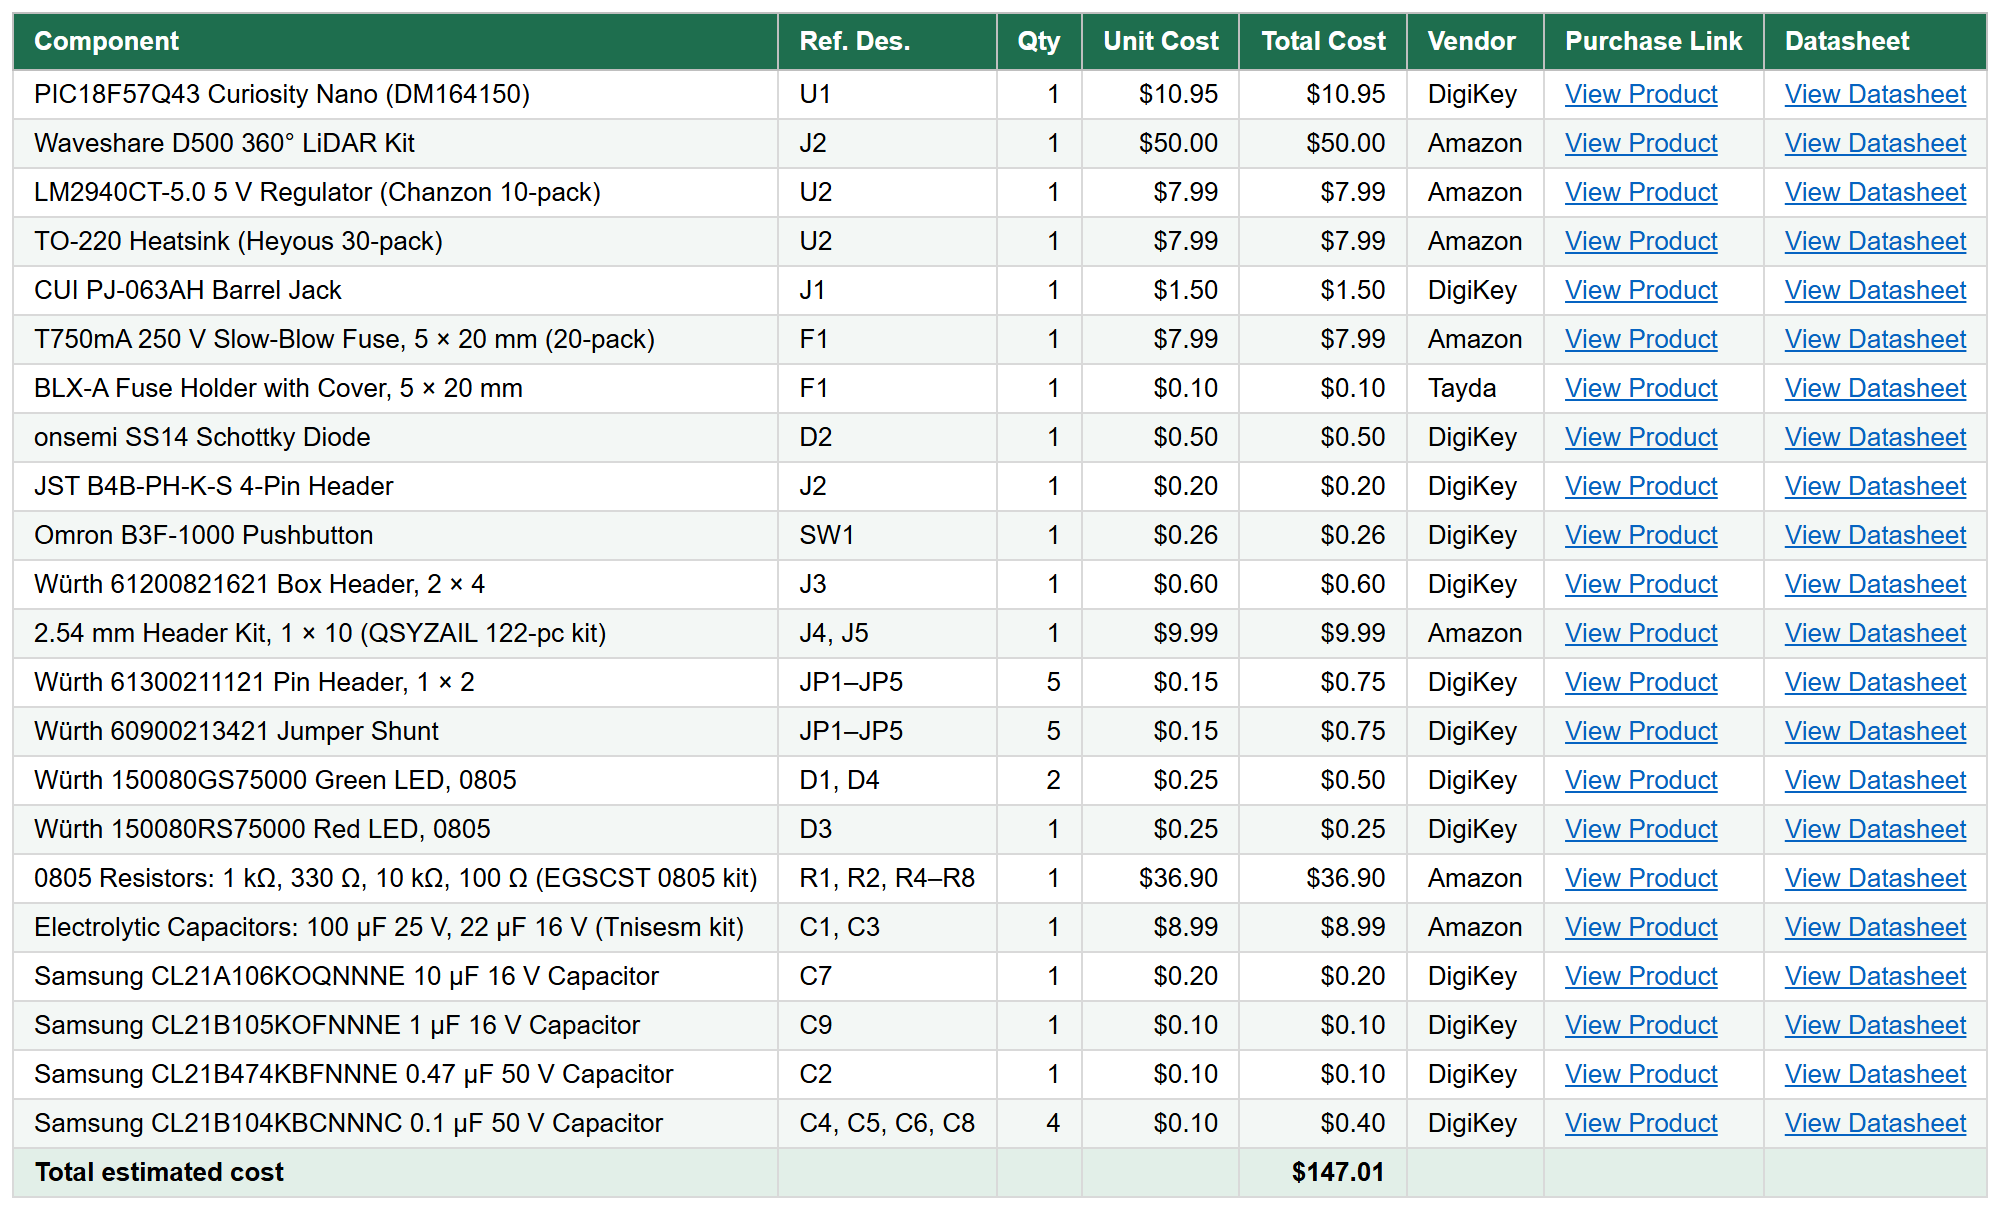
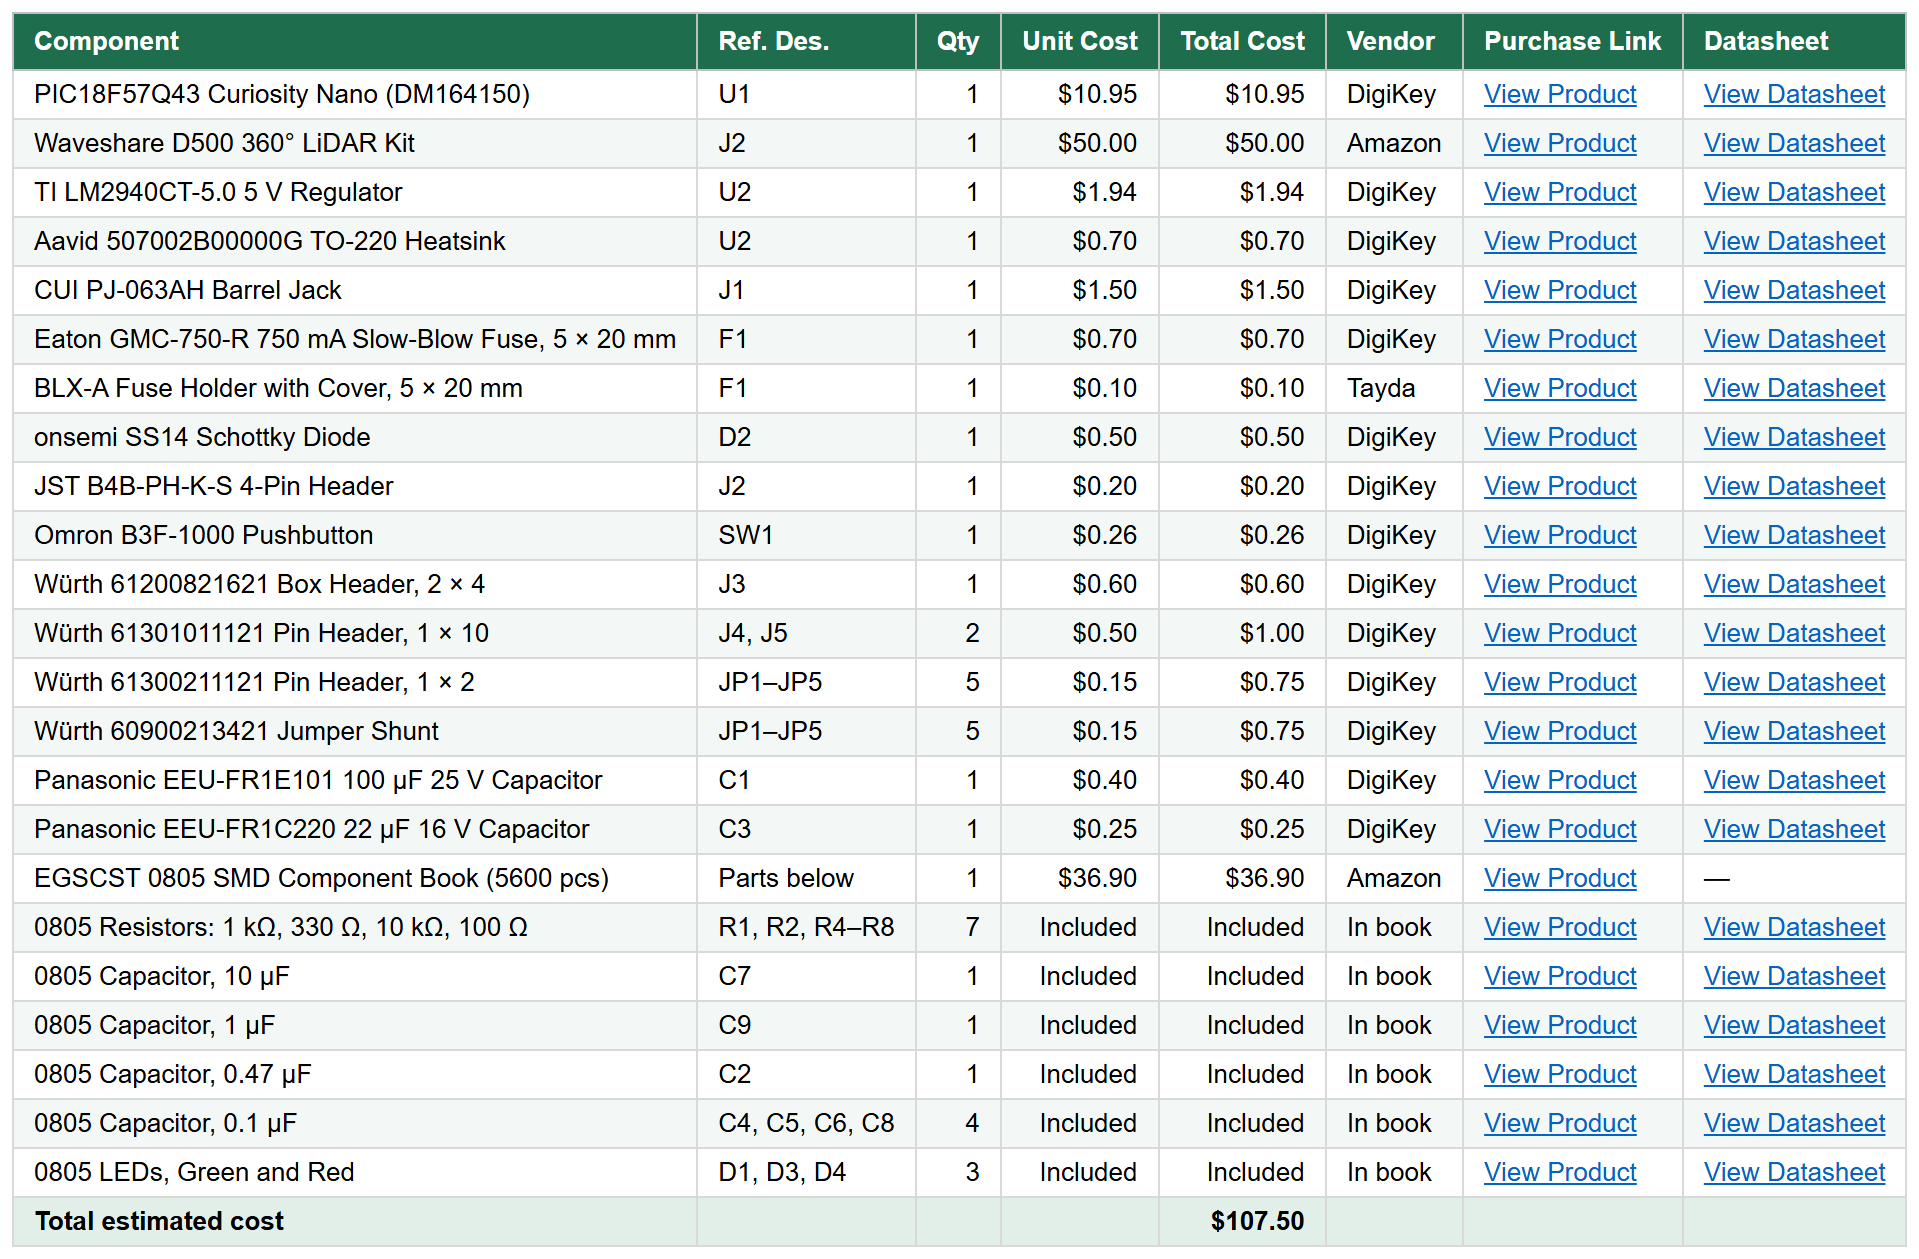
deploy: fafc009e485b6124edbb22317f1070342c896b4a

Changed region(s): [[0.0, 0.0, 1.0, 0.9785]]

diff --git a/03-BOM/BOM/index.html b/03-BOM/BOM/index.html
@@ -1070,7 +1070,7 @@
   <h1>Bill of Materials</h1>
 
 <h2 id="overview">Overview</h2>
-<p>Everything needed to build my LiDAR subsystem board. Reference designators match the <a href="../../04-Schematic/Schematics/">schematic</a>. Prices are in US dollars without shipping. Some parts are bought as kits from Amazon; the kit price is listed once, and the datasheet link is for an equivalent manufacturer part.</p>
+<p>Everything needed to build my LiDAR subsystem board. Reference designators match the <a href="../../04-Schematic/Schematics/">schematic</a>. Prices are in US dollars without shipping. Parts come from DigiKey except the LiDAR, the fuse holder, and the 0805 component book, which supplies every resistor, ceramic capacitor, and LED. Datasheets for book parts are for equivalent manufacturer parts.</p>
 <h2 id="bill-of-materials-spreadsheet">Bill of Materials (Spreadsheet)</h2>
 <p><a class="glightbox" data-type="image" data-width="auto" data-height="auto" href="../BOM_LiDAR_LK.png" data-desc-position="bottom"><img alt="LiDAR subsystem bill of materials" src="../BOM_LiDAR_LK.png"></a></p>
 <p>Download the <a href="../BOM_LiDAR_LK.xlsx">Excel file</a>.</p>
@@ -1111,23 +1111,23 @@
 <td><a href="https://www.waveshare.com/wiki/D500_LiDAR_Kit">View Datasheet</a></td>
 </tr>
 <tr>
-<td>LM2940CT-5.0 5 V Regulator (Chanzon 10-pack)</td>
+<td>TI LM2940CT-5.0 5 V Regulator</td>
 <td>U2</td>
 <td style="text-align: right;">1</td>
-<td style="text-align: right;">\$7.99</td>
-<td style="text-align: right;">\$7.99</td>
-<td>Amazon</td>
-<td><a href="https://www.amazon.com/dp/B08M31N764">View Product</a></td>
+<td style="text-align: right;">\$1.94</td>
+<td style="text-align: right;">\$1.94</td>
+<td>DigiKey</td>
+<td><a href="https://www.digikey.com/en/products/detail/texas-instruments/LM2940CT-5-0-NOPB/32575">View Product</a></td>
 <td><a href="https://www.ti.com/lit/ds/symlink/lm2940-n.pdf">View Datasheet</a></td>
 </tr>
 <tr>
-<td>TO-220 Heatsink (Heyous 30-pack)</td>
+<td>Aavid 507002B00000G TO-220 Heatsink</td>
 <td>U2</td>
 <td style="text-align: right;">1</td>
-<td style="text-align: right;">\$7.99</td>
-<td style="text-align: right;">\$7.99</td>
-<td>Amazon</td>
-<td><a href="https://www.amazon.com/dp/B0D6VVQ1DF">View Product</a></td>
+<td style="text-align: right;">\$0.70</td>
+<td style="text-align: right;">\$0.70</td>
+<td>DigiKey</td>
+<td><a href="https://www.digikey.com/en/products/detail/boyd-laconia-llc/507002B00000G/5846">View Product</a></td>
 <td><a href="https://info.boydcorp.com/hubfs/Thermal/Air-Cooling/Boyd-Board-Level-Heatsinks-Catalog.pdf">View Datasheet</a></td>
 </tr>
 <tr>
@@ -1141,14 +1141,14 @@
 <td><a href="https://www.sameskydevices.com/product/resource/pj-063ah.pdf">View Datasheet</a></td>
 </tr>
 <tr>
-<td>T750mA 250 V Slow-Blow Fuse, 5 × 20 mm (20-pack)</td>
+<td>Eaton GMC-750-R 750 mA Slow-Blow Fuse, 5 × 20 mm</td>
 <td>F1</td>
 <td style="text-align: right;">1</td>
-<td style="text-align: right;">\$7.99</td>
-<td style="text-align: right;">\$7.99</td>
-<td>Amazon</td>
-<td><a href="https://www.amazon.com/dp/B0B58Z38YJ">View Product</a></td>
-<td><a href="https://www.littelfuse.com/~/media/electronics/datasheets/fuses/littelfuse_fuse_218_datasheet.pdf.pdf">View Datasheet</a></td>
+<td style="text-align: right;">\$0.70</td>
+<td style="text-align: right;">\$0.70</td>
+<td>DigiKey</td>
+<td><a href="https://www.digikey.com/en/products/detail/eaton-electronics-division/GMC-750-R/1877496">View Product</a></td>
+<td><a href="https://www.mouser.com/datasheet/2/87/eaton%20corporation_bus-elx-ds-4395-gmc-1160696.pdf">View Datasheet</a></td>
 </tr>
 <tr>
 <td>BLX-A Fuse Holder with Cover, 5 × 20 mm</td>
@@ -1201,13 +1201,13 @@
 <td><a href="https://www.we-online.com/components/products/datasheet/61200821621.pdf">View Datasheet</a></td>
 </tr>
 <tr>
-<td>2.54 mm Header Kit, 1 × 10 (QSYZAIL 122-pc kit)</td>
+<td>Würth 61301011121 Pin Header, 1 × 10</td>
 <td>J4, J5</td>
-<td style="text-align: right;">1</td>
-<td style="text-align: right;">\$9.99</td>
-<td style="text-align: right;">\$9.99</td>
-<td>Amazon</td>
-<td><a href="https://www.amazon.com/dp/B0G578NSXC">View Product</a></td>
+<td style="text-align: right;">2</td>
+<td style="text-align: right;">\$0.50</td>
+<td style="text-align: right;">\$1.00</td>
+<td>DigiKey</td>
+<td><a href="https://www.digikey.com/en/products/result?keywords=61301011121">View Product</a></td>
 <td><a href="https://www.we-online.com/components/products/datasheet/61301011121.pdf">View Datasheet</a></td>
 </tr>
 <tr>
@@ -1231,89 +1231,99 @@
 <td><a href="https://www.we-online.com/components/products/datasheet/60900213421.pdf">View Datasheet</a></td>
 </tr>
 <tr>
-<td>Würth 150080GS75000 Green LED, 0805</td>
-<td>D1, D4</td>
-<td style="text-align: right;">2</td>
-<td style="text-align: right;">\$0.25</td>
-<td style="text-align: right;">\$0.50</td>
+<td>Panasonic EEU-FR1E101 100 µF 25 V Capacitor</td>
+<td>C1</td>
+<td style="text-align: right;">1</td>
+<td style="text-align: right;">\$0.40</td>
+<td style="text-align: right;">\$0.40</td>
 <td>DigiKey</td>
-<td><a href="https://www.digikey.com/en/products/result?keywords=150080GS75000">View Product</a></td>
-<td><a href="https://www.we-online.com/components/products/datasheet/150080GS75000.pdf">View Datasheet</a></td>
+<td><a href="https://www.digikey.com/en/products/result?keywords=EEU-FR1E101">View Product</a></td>
+<td><a href="https://industrial.panasonic.com/cdbs/www-data/pdf/RDF0000/ABA0000C1209.pdf">View Datasheet</a></td>
 </tr>
 <tr>
-<td>Würth 150080RS75000 Red LED, 0805</td>
-<td>D3</td>
+<td>Panasonic EEU-FR1C220 22 µF 16 V Capacitor</td>
+<td>C3</td>
 <td style="text-align: right;">1</td>
 <td style="text-align: right;">\$0.25</td>
 <td style="text-align: right;">\$0.25</td>
 <td>DigiKey</td>
-<td><a href="https://www.digikey.com/en/products/result?keywords=150080RS75000">View Product</a></td>
-<td><a href="https://www.we-online.com/components/products/datasheet/150080RS75000.pdf">View Datasheet</a></td>
+<td><a href="https://www.digikey.com/en/products/result?keywords=EEU-FR1C220">View Product</a></td>
+<td><a href="https://industrial.panasonic.com/cdbs/www-data/pdf/RDF0000/ABA0000C1209.pdf">View Datasheet</a></td>
 </tr>
 <tr>
-<td>0805 Resistors: 1 kΩ, 330 Ω, 10 kΩ, 100 Ω (EGSCST 0805 kit)</td>
-<td>R1, R2, R4–R8</td>
+<td>EGSCST 0805 SMD Component Book (5600 pcs)</td>
+<td>Parts below</td>
 <td style="text-align: right;">1</td>
 <td style="text-align: right;">\$36.90</td>
 <td style="text-align: right;">\$36.90</td>
 <td>Amazon</td>
 <td><a href="https://www.amazon.com/dp/B0DZXQPFHP">View Product</a></td>
+<td>See rows below</td>
+</tr>
+<tr>
+<td>0805 Resistors: 1 kΩ, 330 Ω, 10 kΩ, 100 Ω</td>
+<td>R1, R2, R4–R8</td>
+<td style="text-align: right;">7</td>
+<td style="text-align: right;">Included</td>
+<td style="text-align: right;">Included</td>
+<td>In book</td>
+<td><a href="https://www.amazon.com/dp/B0DZXQPFHP">View Product</a></td>
 <td><a href="https://www.seielect.com/catalog/sei-rmcf_rmcp.pdf">View Datasheet</a></td>
 </tr>
 <tr>
-<td>Electrolytic Capacitors: 100 µF 25 V, 22 µF 16 V (Tnisesm kit)</td>
-<td>C1, C3</td>
-<td style="text-align: right;">1</td>
-<td style="text-align: right;">\$8.99</td>
-<td style="text-align: right;">\$8.99</td>
-<td>Amazon</td>
-<td><a href="https://www.amazon.com/dp/B0G5X62C69">View Product</a></td>
-<td><a href="https://industrial.panasonic.com/cdbs/www-data/pdf/RDF0000/ABA0000C1209.pdf">View Datasheet</a></td>
-</tr>
-<tr>
-<td>Samsung CL21A106KOQNNNE 10 µF 16 V Capacitor</td>
+<td>0805 Capacitor, 10 µF</td>
 <td>C7</td>
 <td style="text-align: right;">1</td>
-<td style="text-align: right;">\$0.20</td>
-<td style="text-align: right;">\$0.20</td>
-<td>DigiKey</td>
-<td><a href="https://www.digikey.com/en/products/result?keywords=CL21A106KOQNNNE">View Product</a></td>
+<td style="text-align: right;">Included</td>
+<td style="text-align: right;">Included</td>
+<td>In book</td>
+<td><a href="https://www.amazon.com/dp/B0DZXQPFHP">View Product</a></td>
 <td><a href="https://product.samsungsem.com/mlcc/CL21A106KOQNNN.do">View Datasheet</a></td>
 </tr>
 <tr>
-<td>Samsung CL21B105KOFNNNE 1 µF 16 V Capacitor</td>
+<td>0805 Capacitor, 1 µF</td>
 <td>C9</td>
 <td style="text-align: right;">1</td>
-<td style="text-align: right;">\$0.10</td>
-<td style="text-align: right;">\$0.10</td>
-<td>DigiKey</td>
-<td><a href="https://www.digikey.com/en/products/result?keywords=CL21B105KOFNNNE">View Product</a></td>
+<td style="text-align: right;">Included</td>
+<td style="text-align: right;">Included</td>
+<td>In book</td>
+<td><a href="https://www.amazon.com/dp/B0DZXQPFHP">View Product</a></td>
 <td><a href="https://product.samsungsem.com/mlcc/CL21B105KOFNNN.do">View Datasheet</a></td>
 </tr>
 <tr>
-<td>Samsung CL21B474KBFNNNE 0.47 µF 50 V Capacitor</td>
+<td>0805 Capacitor, 0.47 µF</td>
 <td>C2</td>
 <td style="text-align: right;">1</td>
-<td style="text-align: right;">\$0.10</td>
-<td style="text-align: right;">\$0.10</td>
-<td>DigiKey</td>
-<td><a href="https://www.digikey.com/en/products/result?keywords=CL21B474KBFNNNE">View Product</a></td>
+<td style="text-align: right;">Included</td>
+<td style="text-align: right;">Included</td>
+<td>In book</td>
+<td><a href="https://www.amazon.com/dp/B0DZXQPFHP">View Product</a></td>
 <td><a href="https://product.samsungsem.com/mlcc/CL21B474KBFNNN.do">View Datasheet</a></td>
 </tr>
 <tr>
-<td>Samsung CL21B104KBCNNNC 0.1 µF 50 V Capacitor</td>
+<td>0805 Capacitor, 0.1 µF</td>
 <td>C4, C5, C6, C8</td>
 <td style="text-align: right;">4</td>
-<td style="text-align: right;">\$0.10</td>
-<td style="text-align: right;">\$0.40</td>
-<td>DigiKey</td>
-<td><a href="https://www.digikey.com/en/products/result?keywords=CL21B104KBCNNNC">View Product</a></td>
+<td style="text-align: right;">Included</td>
+<td style="text-align: right;">Included</td>
+<td>In book</td>
+<td><a href="https://www.amazon.com/dp/B0DZXQPFHP">View Product</a></td>
 <td><a href="https://product.samsungsem.com/mlcc/CL21B104KBCNNN.do">View Datasheet</a></td>
+</tr>
+<tr>
+<td>0805 LEDs, Green and Red</td>
+<td>D1, D3, D4</td>
+<td style="text-align: right;">3</td>
+<td style="text-align: right;">Included</td>
+<td style="text-align: right;">Included</td>
+<td>In book</td>
+<td><a href="https://www.amazon.com/dp/B0DZXQPFHP">View Product</a></td>
+<td><a href="https://www.we-online.com/components/products/datasheet/150080GS75000.pdf">View Datasheet</a></td>
 </tr>
 </tbody>
 </table>
 </div>
-<p><strong>Total estimated cost: \$147.01</strong></p>
+<p><strong>Total estimated cost: \$107.50</strong></p>
 <h2 id="battery-pack">Battery Pack</h2>
 <div class="bom">
 <table>
